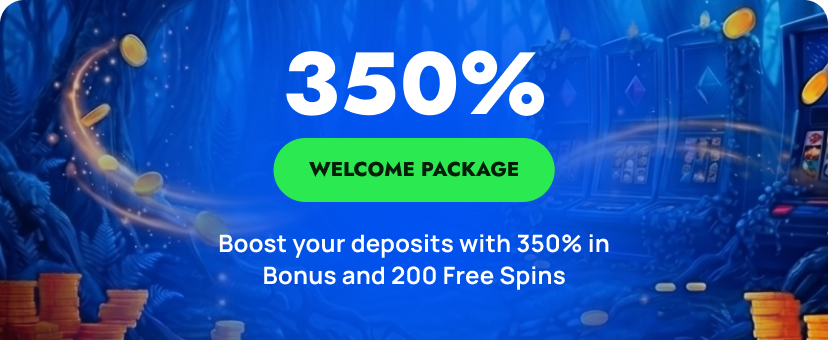
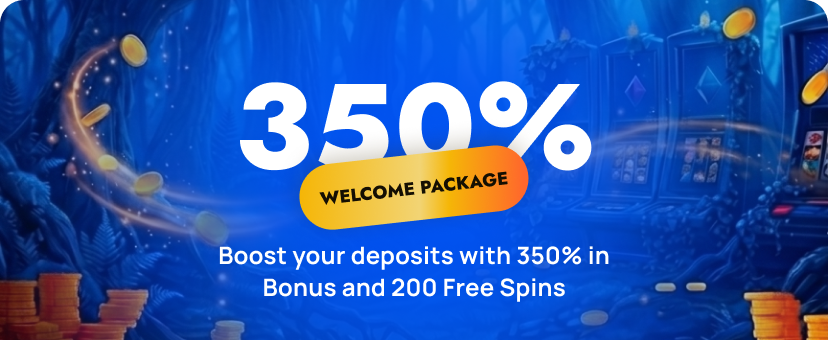
..

Changed region(s): [[0.2415, 0.1471, 0.7548, 0.8824]]

diff --git a/src/app/globals.css b/src/app/globals.css
@@ -25,13 +25,32 @@ body {
   overflow-x: hidden;
 }
 
-::-webkit-scrollbar { width: 8px; height: 8px; }
-::-webkit-scrollbar-track { background: #091741; }
-::-webkit-scrollbar-thumb { background: #112F82; border-radius: 4px; }
-::-webkit-scrollbar-thumb:hover { background: #1463FF; }
+::-webkit-scrollbar {
+  width: 8px;
+  height: 8px;
+}
 
-.scrollbar-none::-webkit-scrollbar { display: none !important; }
-.scrollbar-none { -ms-overflow-style: none !important; scrollbar-width: none !important; }
+::-webkit-scrollbar-track {
+  background: #091741;
+}
+
+::-webkit-scrollbar-thumb {
+  background: #112F82;
+  border-radius: 4px;
+}
+
+::-webkit-scrollbar-thumb:hover {
+  background: #1463FF;
+}
+
+.scrollbar-none::-webkit-scrollbar {
+  display: none !important;
+}
+
+.scrollbar-none {
+  -ms-overflow-style: none !important;
+  scrollbar-width: none !important;
+}
 
 input:-webkit-autofill,
 input:-webkit-autofill:hover,
@@ -47,8 +66,13 @@ input:-webkit-autofill:active {
 
 
 @keyframes spin {
-  from { transform: rotate(0deg); }
-  to   { transform: rotate(360deg); }
+  from {
+    transform: rotate(0deg);
+  }
+
+  to {
+    transform: rotate(360deg);
+  }
 }
 
 input::placeholder {
@@ -135,7 +159,9 @@ input::placeholder {
   transition: color 0.2s ease;
 }
 
-.game-section-view-all:hover { color: #ffd666; }
+.game-section-view-all:hover {
+  color: #ffd666;
+}
 
 .game-section-nav {
   display: flex;
@@ -163,31 +189,46 @@ input::placeholder {
   transition: all 0.2s ease;
 }
 
-.game-section-btn:disabled { opacity: 0.4; cursor: not-allowed; }
-.game-section-btn:not(:disabled):hover { background: #1463FF; transform: scale(1.05); }
-.game-section-btn:not(:disabled):active { transform: scale(0.95); }
+.game-section-btn:disabled {
+  opacity: 0.4;
+  cursor: not-allowed;
+}
+
+.game-section-btn:not(:disabled):hover {
+  background: #1463FF;
+  transform: scale(1.05);
+}
+
+.game-section-btn:not(:disabled):active {
+  transform: scale(0.95);
+}
 
 @media (min-width: 768px) {
   .game-section-header {
     height: 30px;
   }
+
   .game-section-title-wrapper {
     gap: 12px;
     height: 30px;
   }
+
   .game-section-icon {
     width: 30px;
     height: 30px;
   }
+
   .game-section-icon img {
     height: 30px;
     width: auto;
   }
+
   .game-section-title {
     height: 29px;
     font-size: 20px;
     line-height: 29px;
   }
+
   .game-section-actions-wrapper {
     height: 30px;
   }
@@ -219,7 +260,9 @@ input::placeholder {
   transition: all 0.3s cubic-bezier(0.4, 0, 0.2, 1);
 }
 
-.game-card:hover { box-shadow: 0 10px 25px rgba(0,0,0,0.5); }
+.game-card:hover {
+  box-shadow: 0 10px 25px rgba(0, 0, 0, 0.5);
+}
 
 /* Title overlay — hidden on desktop, shown on mobile */
 .game-card-title {
@@ -257,7 +300,13 @@ input::placeholder {
   height: 30px;
 }
 
-.winners-header-icon { width: 30px; height: 30px; display: flex; align-items: center; justify-content: center; }
+.winners-header-icon {
+  width: 30px;
+  height: 30px;
+  display: flex;
+  align-items: center;
+  justify-content: center;
+}
 
 .winners-header-title {
   font-family: 'Jost', sans-serif;
@@ -318,9 +367,39 @@ input::placeholder {
   height: 20px;
 }
 
-.winners-table-header-username { width: 300px; font-family: 'Jost', sans-serif; font-weight: 700; font-size: 14px; line-height: 20px; letter-spacing: 0.02em; text-transform: uppercase; color: #FFFFFF; }
-.winners-table-header-time     { width: 150px; font-family: 'Jost', sans-serif; font-weight: 700; font-size: 14px; line-height: 20px; letter-spacing: 0.02em; text-transform: uppercase; color: #FFFFFF; }
-.winners-table-header-payout   { width: 150px; font-family: 'Jost', sans-serif; font-weight: 700; font-size: 14px; line-height: 20px; text-align: right; letter-spacing: 0.02em; text-transform: uppercase; color: #FFFFFF; }
+.winners-table-header-username {
+  width: 300px;
+  font-family: 'Jost', sans-serif;
+  font-weight: 700;
+  font-size: 14px;
+  line-height: 20px;
+  letter-spacing: 0.02em;
+  text-transform: uppercase;
+  color: #FFFFFF;
+}
+
+.winners-table-header-time {
+  width: 150px;
+  font-family: 'Jost', sans-serif;
+  font-weight: 700;
+  font-size: 14px;
+  line-height: 20px;
+  letter-spacing: 0.02em;
+  text-transform: uppercase;
+  color: #FFFFFF;
+}
+
+.winners-table-header-payout {
+  width: 150px;
+  font-family: 'Jost', sans-serif;
+  font-weight: 700;
+  font-size: 14px;
+  line-height: 20px;
+  text-align: right;
+  letter-spacing: 0.02em;
+  text-transform: uppercase;
+  color: #FFFFFF;
+}
 
 .winner-row-container {
   display: flex;
@@ -335,7 +414,9 @@ input::placeholder {
   transition: background-color 0.2s ease;
 }
 
-.winner-row-container:hover { background: #112B75; }
+.winner-row-container:hover {
+  background: #112B75;
+}
 
 .winner-row-game-frame {
   display: flex;
@@ -357,7 +438,14 @@ input::placeholder {
   flex-shrink: 0;
 }
 
-.winner-row-game-title  { font-family: 'Manrope', sans-serif; font-weight: 600; font-size: 14px; line-height: 19px; letter-spacing: 0.02em; color: #FFFFFF; }
+.winner-row-game-title {
+  font-family: 'Manrope', sans-serif;
+  font-weight: 600;
+  font-size: 14px;
+  line-height: 19px;
+  letter-spacing: 0.02em;
+  color: #FFFFFF;
+}
 
 .winner-row-right-frame {
   display: flex;
@@ -369,15 +457,55 @@ input::placeholder {
   height: 19px;
 }
 
-.winner-row-username { width: 300px; font-family: 'Manrope', sans-serif; font-weight: 600; font-size: 14px; line-height: 19px; letter-spacing: 0.02em; color: #FFFFFF; white-space: nowrap; overflow: hidden; text-overflow: ellipsis; }
-.winner-row-time     { width: 150px; font-family: 'Manrope', sans-serif; font-weight: 600; font-size: 14px; line-height: 19px; letter-spacing: 0.02em; color: #FFFFFF; }
-.winner-row-payout   { width: 150px; font-family: 'Manrope', sans-serif; font-weight: 600; font-size: 14px; line-height: 19px; text-align: right; letter-spacing: 0.02em; }
-.winner-row-payout.win  { color: #00DD29; }
-.winner-row-payout.zero { color: #7795E8; }
+.winner-row-username {
+  width: 300px;
+  font-family: 'Manrope', sans-serif;
+  font-weight: 600;
+  font-size: 14px;
+  line-height: 19px;
+  letter-spacing: 0.02em;
+  color: #FFFFFF;
+  white-space: nowrap;
+  overflow: hidden;
+  text-overflow: ellipsis;
+}
+
+.winner-row-time {
+  width: 150px;
+  font-family: 'Manrope', sans-serif;
+  font-weight: 600;
+  font-size: 14px;
+  line-height: 19px;
+  letter-spacing: 0.02em;
+  color: #FFFFFF;
+}
+
+.winner-row-payout {
+  width: 150px;
+  font-family: 'Manrope', sans-serif;
+  font-weight: 600;
+  font-size: 14px;
+  line-height: 19px;
+  text-align: right;
+  letter-spacing: 0.02em;
+}
+
+.winner-row-payout.win {
+  color: #00DD29;
+}
+
+.winner-row-payout.zero {
+  color: #7795E8;
+}
 
 /* ── Category Nav Tabs ───────────────────────────────────────────────────── */
-.hover-nav-tab:hover .nav-tab-label { color: #FFC83D !important; }
-.hover-nav-tab:hover img { filter: brightness(0) saturate(100%) invert(80%) sepia(60%) saturate(600%) hue-rotate(5deg) brightness(105%) !important; }
+.hover-nav-tab:hover .nav-tab-label {
+  color: #FFC83D !important;
+}
+
+.hover-nav-tab:hover img {
+  filter: brightness(0) saturate(100%) invert(80%) sepia(60%) saturate(600%) hue-rotate(5deg) brightness(105%) !important;
+}
 
 /* ── Mobile ──────────────────────────────────────────────────────────────── */
 @media (max-width: 767px) {
@@ -412,7 +540,7 @@ input::placeholder {
     left: 0;
     right: 0;
     padding: 22px 5px 6px 5px;
-    background: linear-gradient(0deg, rgba(0,0,0,0.88) 0%, transparent 100%);
+    background: linear-gradient(0deg, rgba(0, 0, 0, 0.88) 0%, transparent 100%);
     font-family: 'Jost', sans-serif;
     font-weight: 800;
     font-size: 9px;
@@ -427,24 +555,28 @@ input::placeholder {
   }
 
   /* Hide desktop arrow buttons */
-  .game-section-nav { display: none; }
+  .game-section-nav {
+    display: none;
+  }
 
   /* View all: yellow on mobile */
-  .game-section-view-all { color: #D2DcF7; }
+  .game-section-view-all {
+    color: #FFBF1F !important;
+  }
 
   /* Promotions: snap slider, ~1.5 cards visible */
   .promo-slider {
     overflow-x: auto !important;
     scroll-snap-type: x mandatory;
     -webkit-overflow-scrolling: touch;
-    height: 163px !important;
-    gap: 11.85px !important;
+    height: 263px !important;
+    gap: 12px !important;
   }
 
   .promo-card {
     width: 278px !important;
     min-width: 278px !important;
-    height: 163px !important;
+    height: 263px !important;
     border-radius: 10px !important;
     scroll-snap-align: start;
     flex-shrink: 0 !important;

diff --git a/src/components/MobileAuthPage.tsx b/src/components/MobileAuthPage.tsx
@@ -191,31 +191,8 @@ export default function MobileAuthPage({ defaultTab }: { defaultTab: 'join' | 'l
           backgroundSize: 'cover',
           backgroundPosition: 'center',
         }}
-      >
-        {/* Blue glow ellipse: 281×281, centered */}
-        <div style={{ position: 'absolute', width: '281px', height: '281px', left: 'calc(50% - 140.5px)', top: 'calc(50% - 140.5px)', background: '#0051F1', filter: 'blur(62.39px)', borderRadius: '50%' }} />
+      />
 
-        {/* Content stack: 220.13×119, centered */}
-        <div style={{ display: 'flex', flexDirection: 'column', alignItems: 'center', padding: 0, gap: '12px', position: 'absolute', width: '220.13px', height: '119px', left: 'calc(50% - 110.065px)', top: 'calc(50% - 59.5px)' }}>
-
-          {/* 350% text */}
-          <div style={{ display: 'flex', flexDirection: 'row', justifyContent: 'center', alignItems: 'center', padding: 0, gap: '10px', width: '132px', height: '31px' }}>
-            <span style={{ fontFamily: "'Jost', sans-serif", fontWeight: 800, fontSize: '44px', lineHeight: '44px', textAlign: 'center', letterSpacing: '0.01em', color: '#FFFFFF', display: 'block', height: '31px', overflow: 'visible' }}>350%</span>
-          </div>
-
-          {/* WELCOME PACKAGE pill: 140.59×32 */}
-          <div style={{ display: 'flex', flexDirection: 'row', justifyContent: 'center', alignItems: 'center', padding: '8.65px 17.3px', gap: '8.65px', width: '140.59px', height: '32px', background: '#2BEA51', borderRadius: '86.49px', flexShrink: 0 }}>
-            <span style={{ fontFamily: "'Jost', sans-serif", fontWeight: 800, fontSize: '10px', lineHeight: '14px', textAlign: 'center', color: '#051D09', whiteSpace: 'nowrap' }}>WELCOME PACKAGE</span>
-          </div>
-
-          {/* Subtitle */}
-          <div style={{ display: 'flex', flexDirection: 'row', justifyContent: 'center', alignItems: 'flex-start', padding: 0, gap: '10px', width: '220.13px', height: '32px' }}>
-            <span style={{ fontFamily: "'Manrope', sans-serif", fontWeight: 700, fontSize: '12px', lineHeight: '16px', textAlign: 'center', letterSpacing: '0.01em', color: '#FFFFFF', width: '200px' }}>
-              Boost your deposits with 350% in Bonus and 200 Free Spins
-            </span>
-          </div>
-        </div>
-      </div>
 
       {/* ── Row 3: Form area px=20, pt=20, pb=40, gap=60 ── */}
       <div style={{ display: 'flex', flexDirection: 'column', alignItems: 'flex-start', padding: '20px 20px 40px', gap: '32px', width: '100%', flexShrink: 0, boxSizing: 'border-box' }}>

diff --git a/src/components/GuestHome.tsx b/src/components/GuestHome.tsx
@@ -309,7 +309,7 @@ export default function GuestHome() {
             <div className="w-full flex flex-col items-center gap-[12px] lg:gap-[16px]">
               <section className="relative w-full rounded-xl lg:rounded-2xl overflow-hidden border border-white/5" style={{ backgroundImage: `url('/images/hero.jpg')`, backgroundSize: 'cover', backgroundPosition: 'center', aspectRatio: '1136/356', minHeight: 160 }}>
                 {/* Blurs inside banner */}
-                <div className="absolute w-[575px] h-[575px] left-[-161px] top-[-102px] rounded-full bg-[#06102B]/60 filter blur-[75px] pointer-events-none" />
+                <div className="absolute w-[575px] h-[575px] left-[-161px] top-[-102px] rounded-full bg-[#06102B]/20 filter blur-[75px] pointer-events-none" />
                 <div className="absolute w-[194px] h-[194px] left-[198px] top-[224px] rounded-full bg-[#103686]/40 filter blur-[25px] pointer-events-none" />
                 <div className="absolute w-[129px] h-[129px] left-[1041px] top-[271px] rounded-full bg-[#010A25]/80 filter blur-[25px] pointer-events-none" />
 